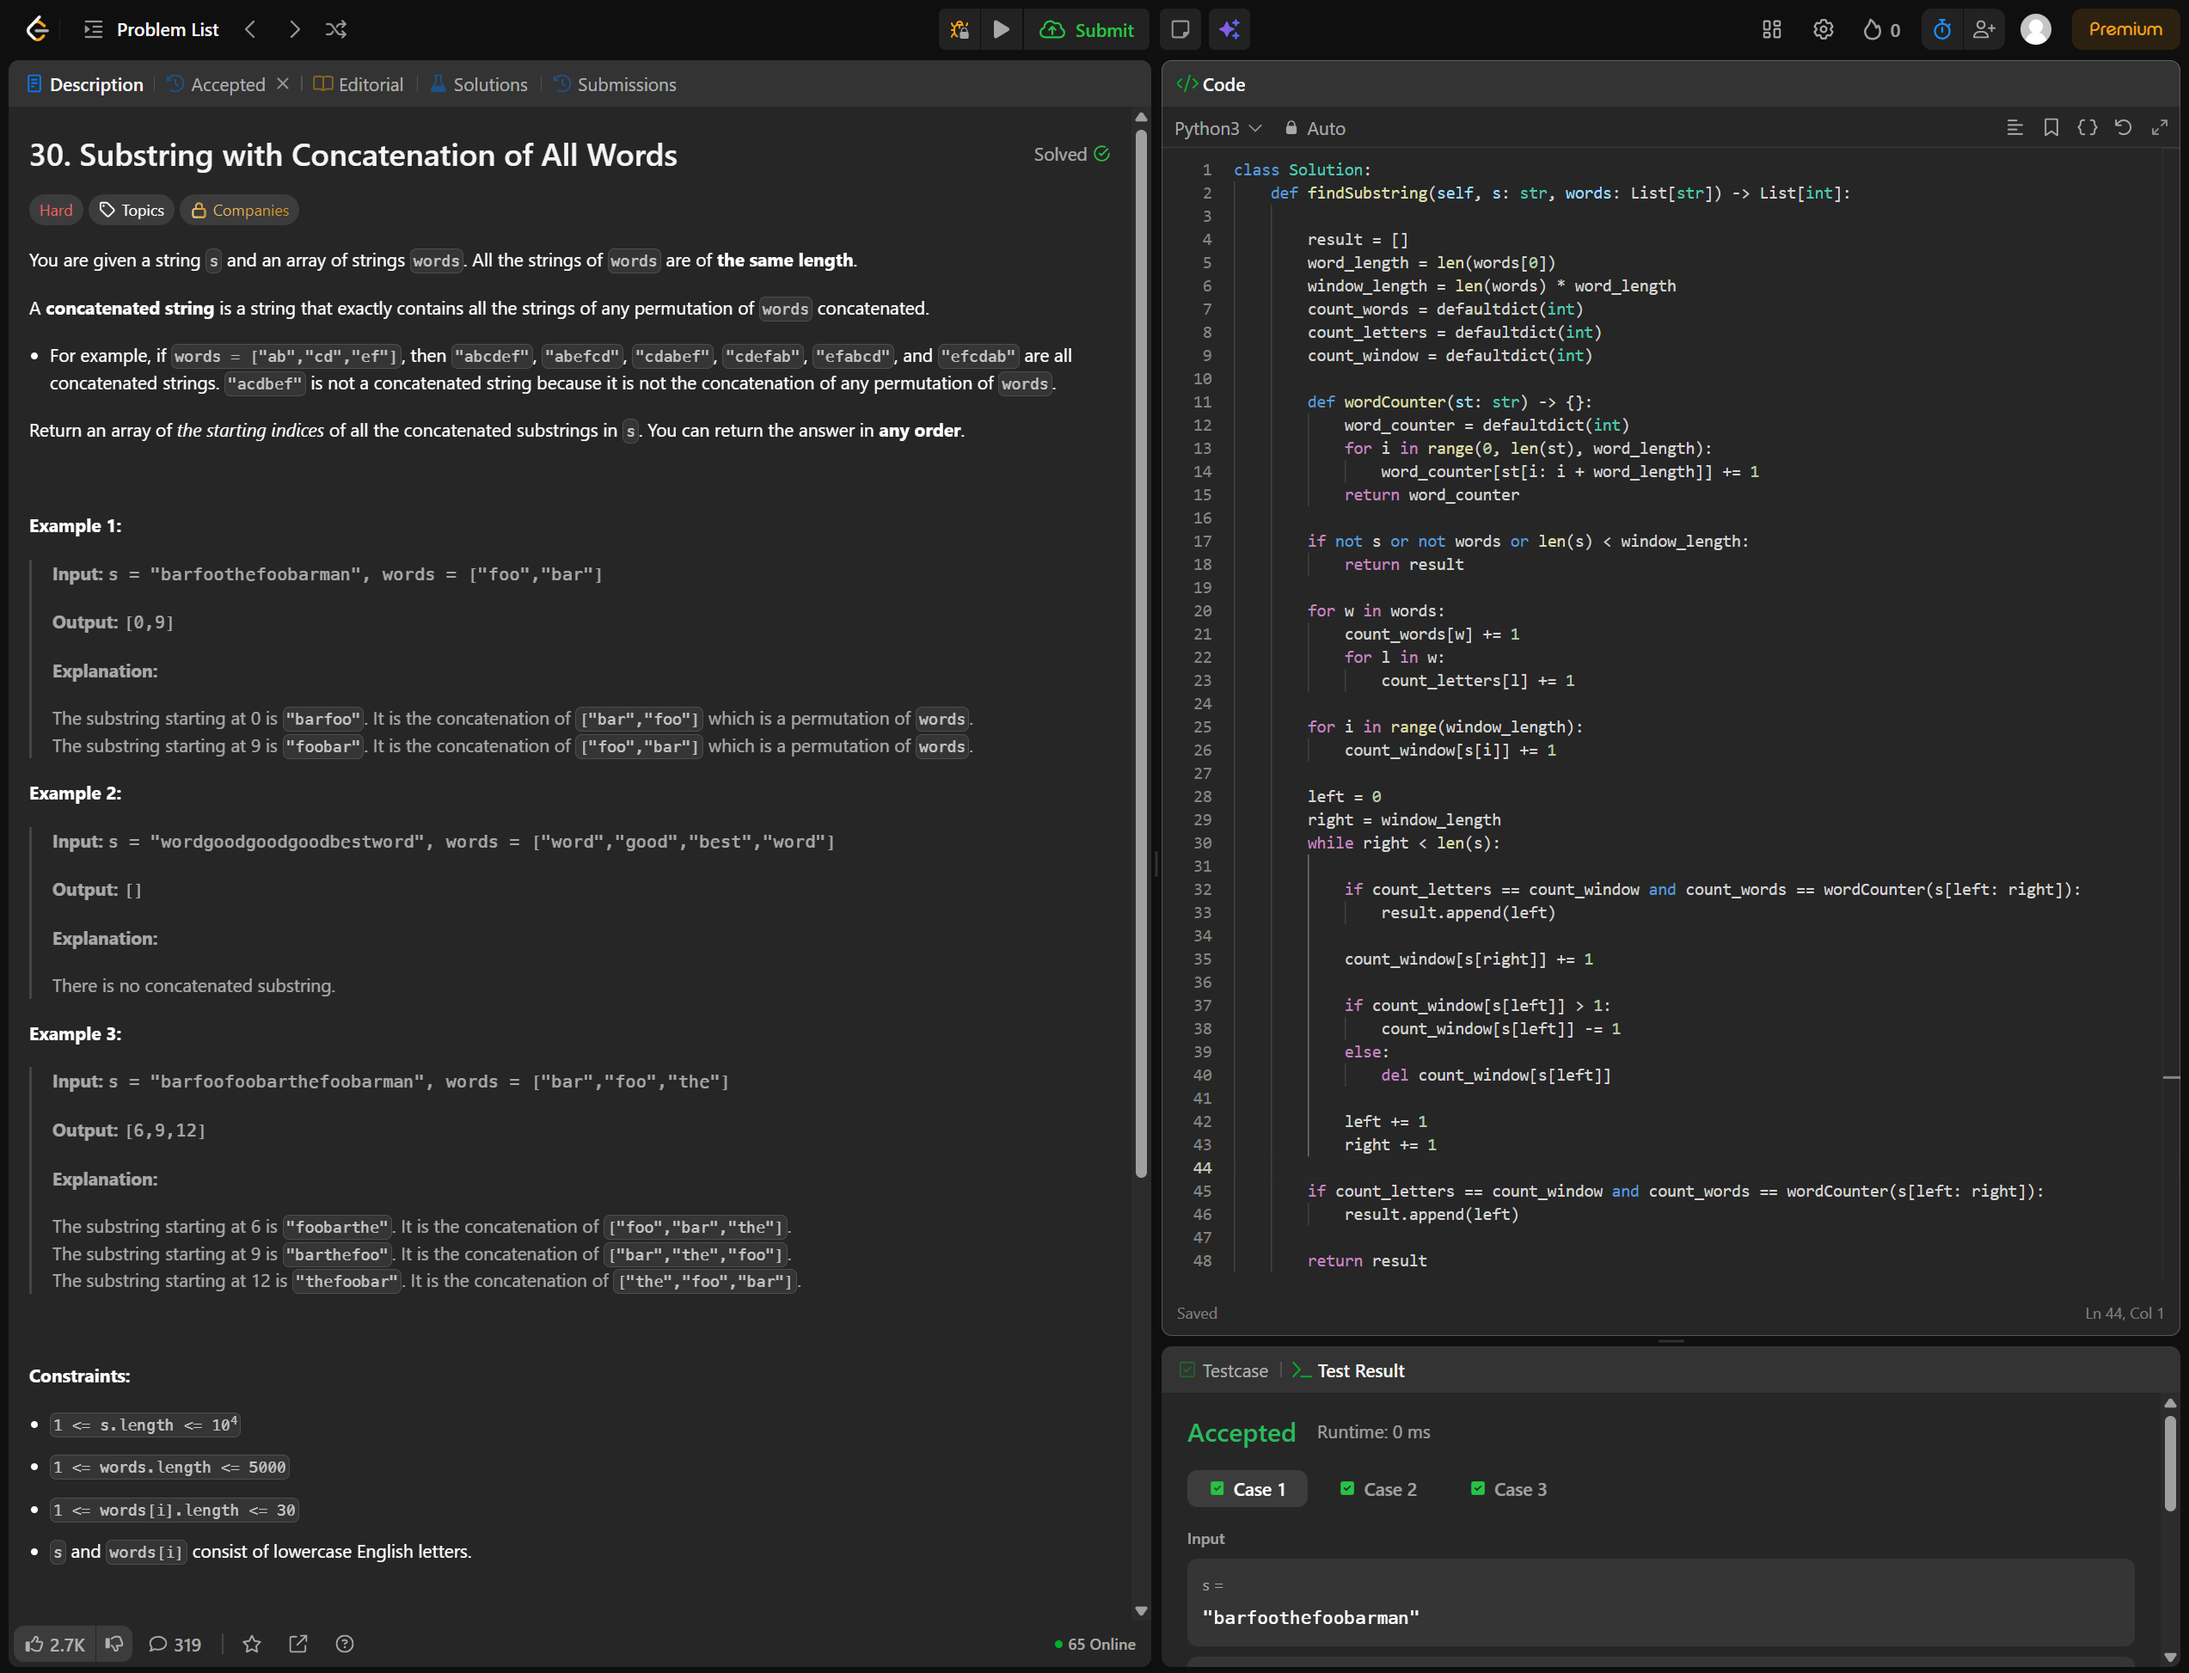
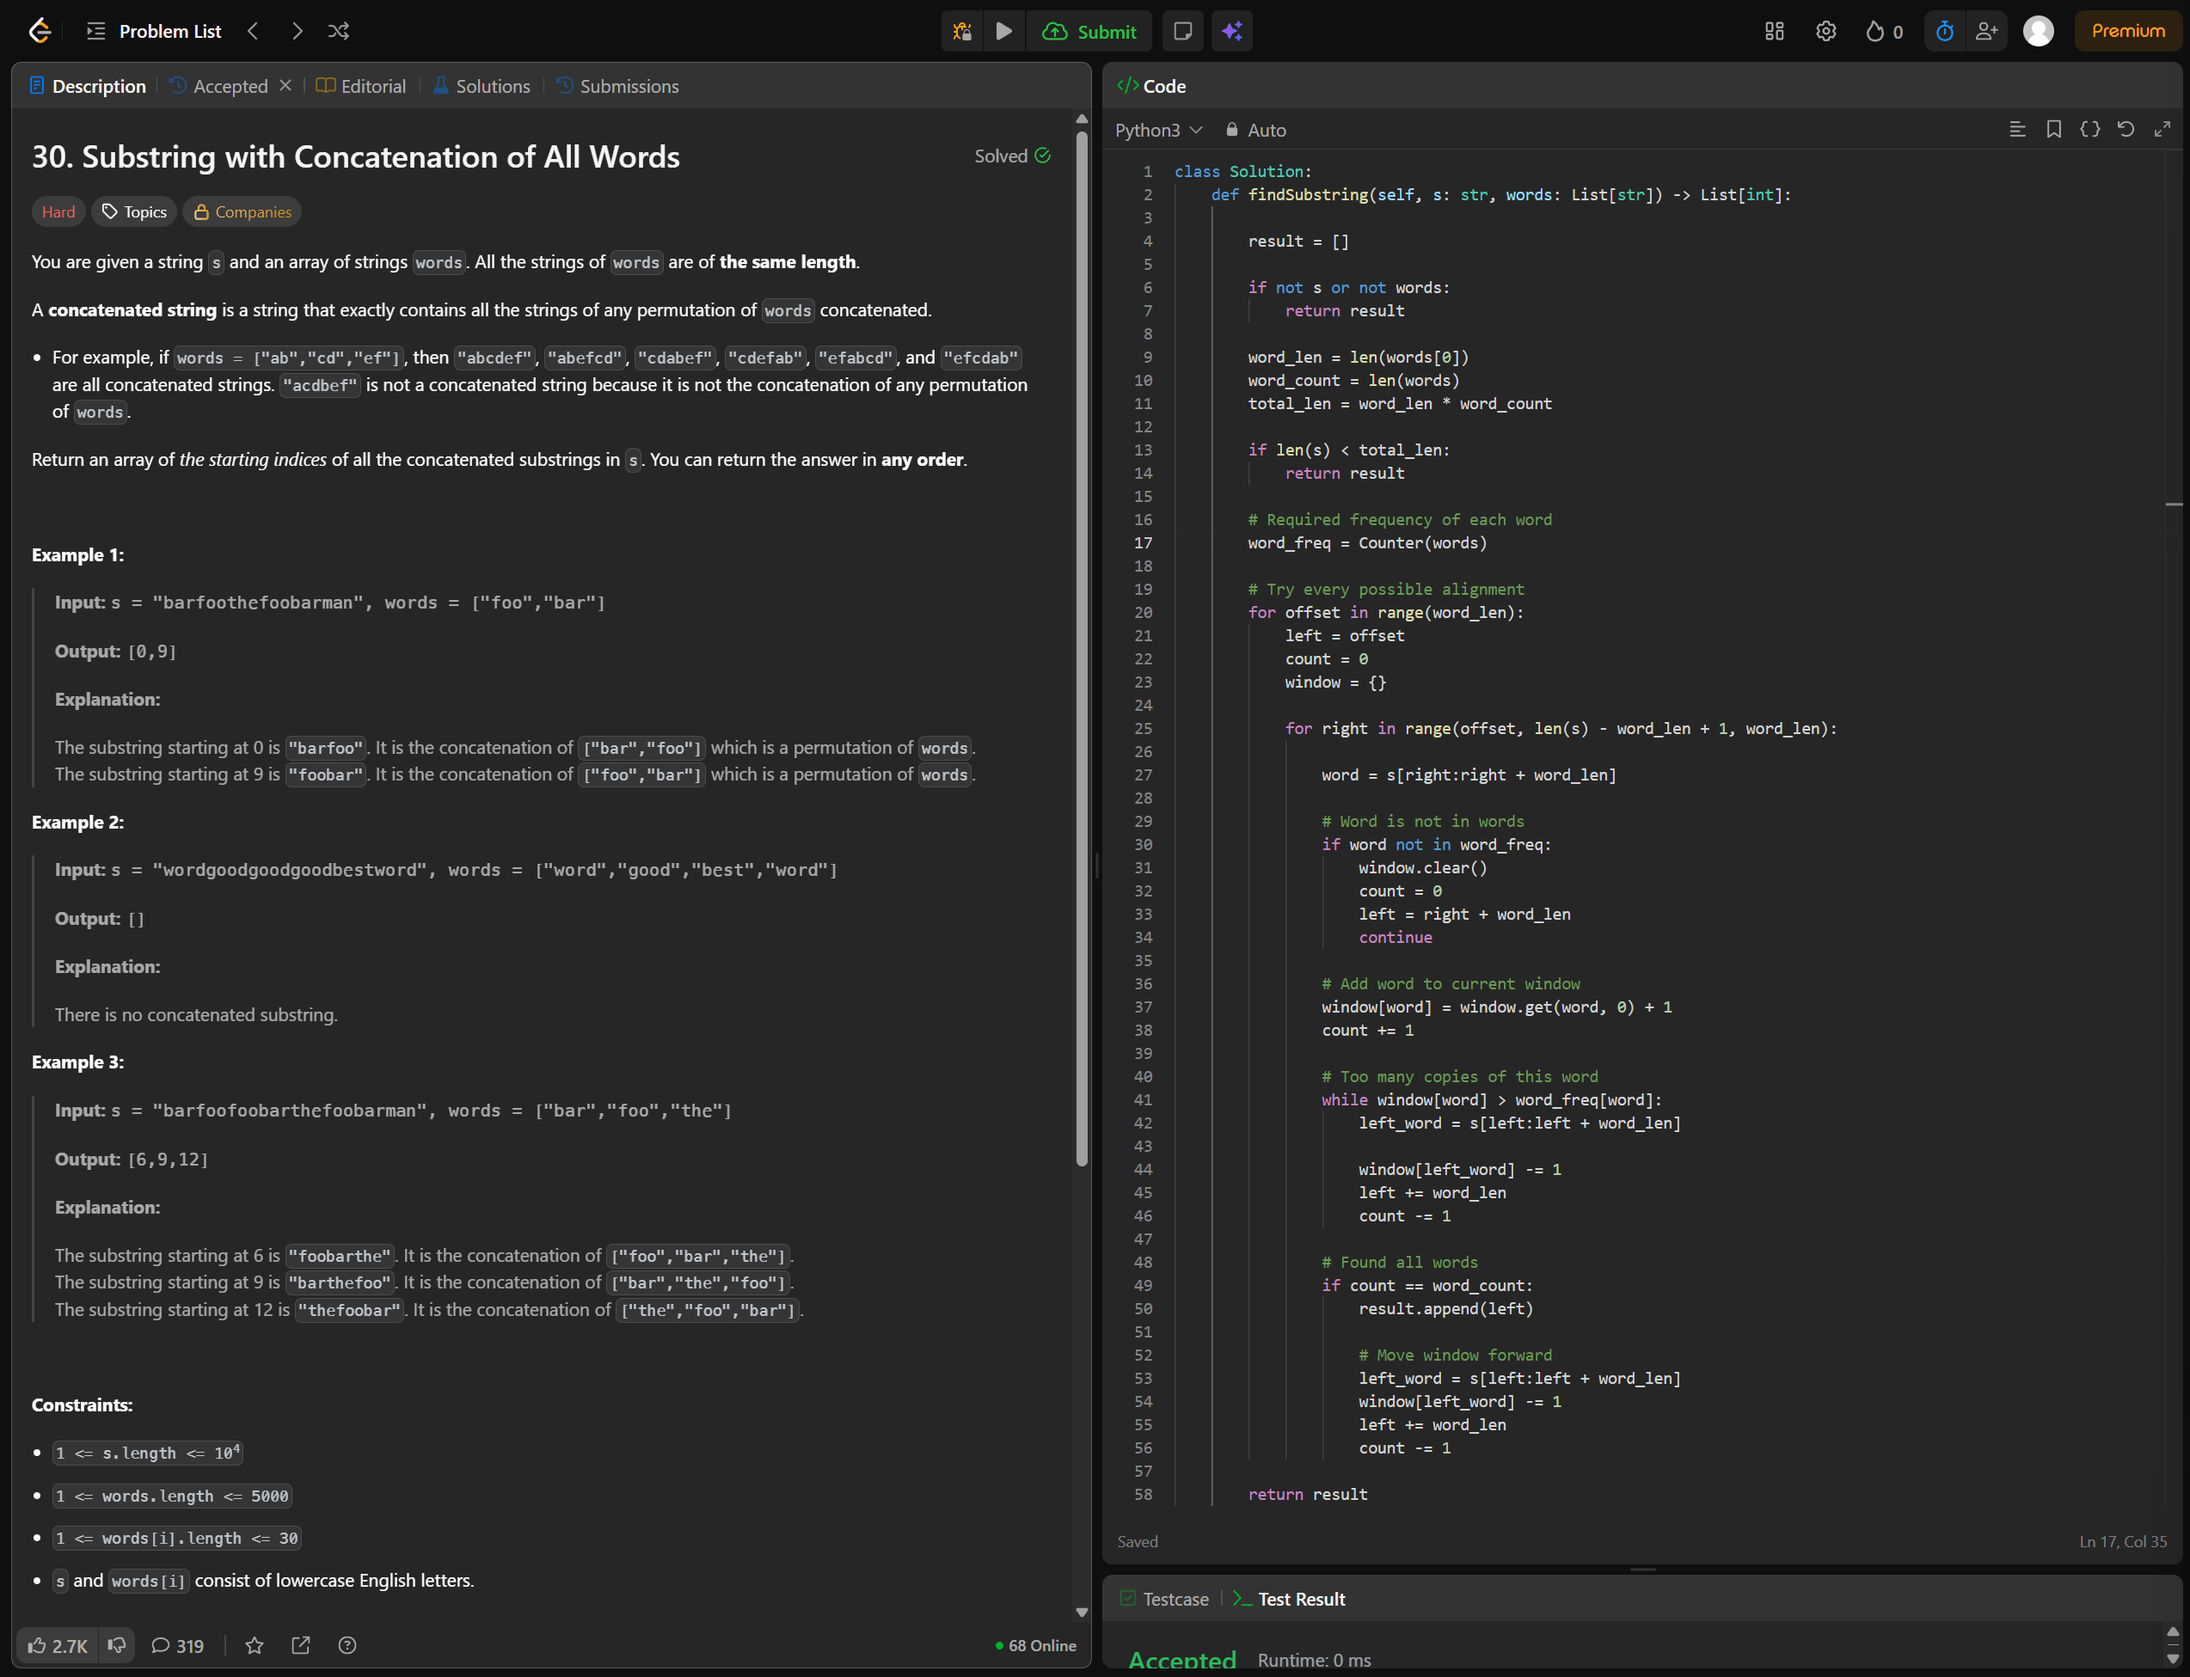
30. Substring with Concatenation of All Words

diff --git a/Hard/30. Substring with Concatenation of All Words/30. Substring with Concatenation of All Words.py b/Hard/30. Substring with Concatenation of All Words/30. Substring with Concatenation of All Words.py
@@ -4,47 +4,109 @@ class Solution:
     def findSubstring(self, s: str, words: List[str]) -> List[int]:
 
         result = []
-        word_length = len(words[0])
-        window_length = len(words) * word_length
-        count_words = defaultdict(int)
-        count_letters = defaultdict(int)
-        count_window = defaultdict(int)
-
-        def wordCounter(st: str) -> {}:
-            word_counter = defaultdict(int)
-            for i in range(0, len(st), word_length):
-                word_counter[st[i: i + word_length]] += 1
-            return word_counter
-
-        if not s or not words or len(s) < window_length:
+        
+        if not s or not words:
             return result
 
-        for w in words:
-            count_words[w] += 1
-            for l in w:
-                count_letters[l] += 1
+        word_len = len(words[0])
+        word_count = len(words)
+        total_len = word_len * word_count
 
-        for i in range(window_length):
-            count_window[s[i]] += 1
+        if len(s) < total_len:
+            return result
 
-        left = 0
-        right = window_length
-        while right < len(s):
-            
-            if count_letters == count_window and count_words == wordCounter(s[left: right]):
-                result.append(left)
+        # Required frequency of each word
+        word_freq = Counter(words)
 
-            count_window[s[right]] += 1
-            
-            if count_window[s[left]] > 1:
-                count_window[s[left]] -= 1
-            else:
-                del count_window[s[left]]
+        # Try every possible alignment
+        for offset in range(word_len):
+            left = offset
+            count = 0
+            window = {}
 
-            left += 1
-            right += 1
+            for right in range(offset, len(s) - word_len + 1, word_len):
 
-        if count_letters == count_window and count_words == wordCounter(s[left: right]):
-            result.append(left)
+                word = s[right:right + word_len]
+
+                # Word is not in words
+                if word not in word_freq:
+                    window.clear()
+                    count = 0
+                    left = right + word_len
+                    continue
+
+                # Add word to current window
+                window[word] = window.get(word, 0) + 1
+                count += 1
+
+                # Too many copies of this word
+                while window[word] > word_freq[word]:
+                    left_word = s[left:left + word_len]
+
+                    window[left_word] -= 1
+                    left += word_len
+                    count -= 1
+
+                # Found all words
+                if count == word_count:
+                    result.append(left)
+
+                    # Move window forward
+                    left_word = s[left:left + word_len]
+                    window[left_word] -= 1
+                    left += word_len
+                    count -= 1
 
         return result
+
+
+## Second Solution:
+
+# class Solution:
+#     def findSubstring(self, s: str, words: List[str]) -> List[int]:
+
+#         result = []
+#         word_length = len(words[0])
+#         window_length = len(words) * word_length
+#         count_words = defaultdict(int)
+#         count_letters = defaultdict(int)
+#         count_window = defaultdict(int)
+
+#         def wordCounter(st: str) -> {}:
+#             word_counter = defaultdict(int)
+#             for i in range(0, len(st), word_length):
+#                 word_counter[st[i: i + word_length]] += 1
+#             return word_counter
+
+#         if not s or not words or len(s) < window_length:
+#             return result
+
+#         for w in words:
+#             count_words[w] += 1
+#             for l in w:
+#                 count_letters[l] += 1
+
+#         for i in range(window_length):
+#             count_window[s[i]] += 1
+
+#         left = 0
+#         right = window_length
+#         while right < len(s):
+            
+#             if count_letters == count_window and count_words == wordCounter(s[left: right]):
+#                 result.append(left)
+
+#             count_window[s[right]] += 1
+            
+#             if count_window[s[left]] > 1:
+#                 count_window[s[left]] -= 1
+#             else:
+#                 del count_window[s[left]]
+
+#             left += 1
+#             right += 1
+
+#         if count_letters == count_window and count_words == wordCounter(s[left: right]):
+#             result.append(left)
+
+#         return result
